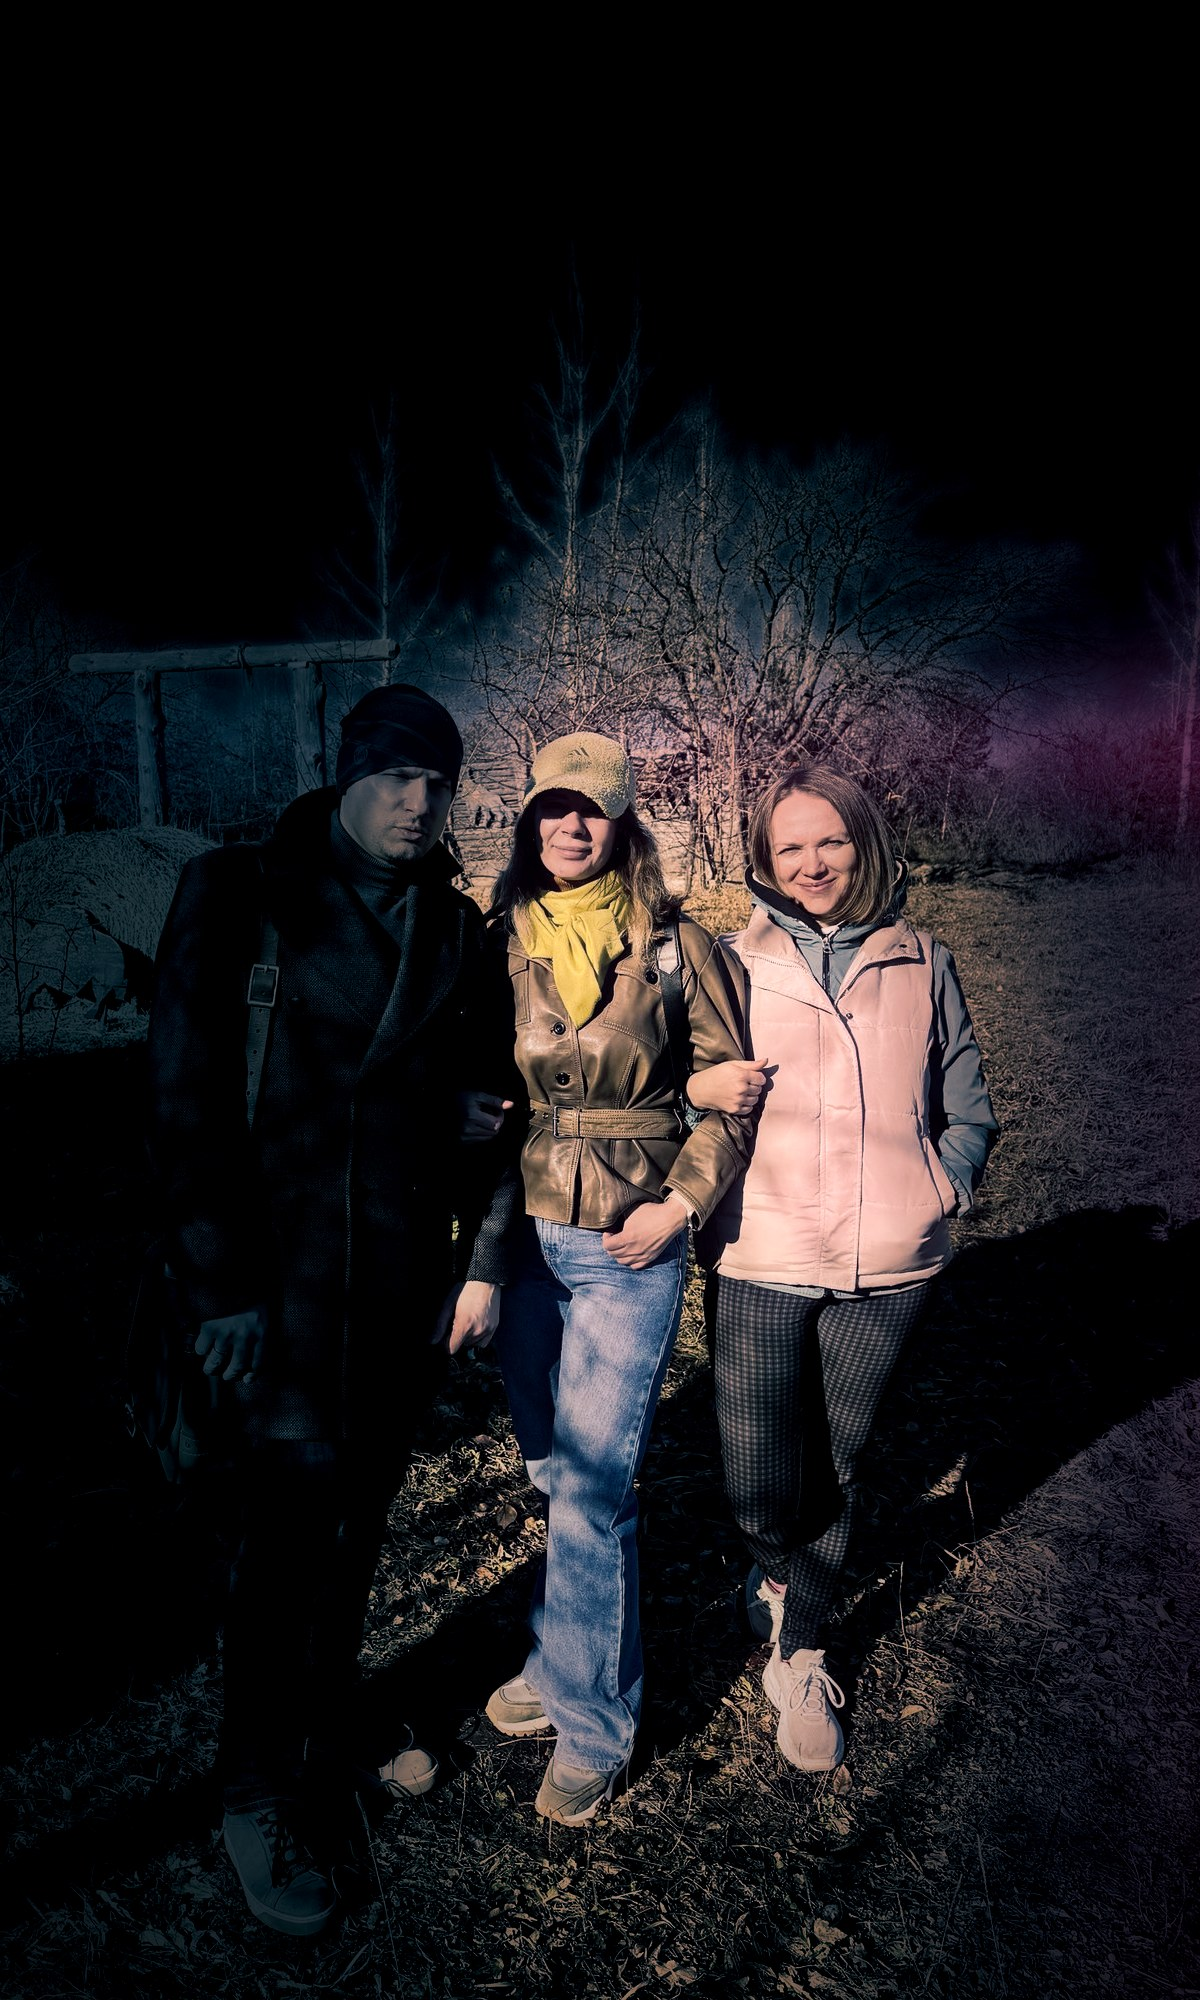
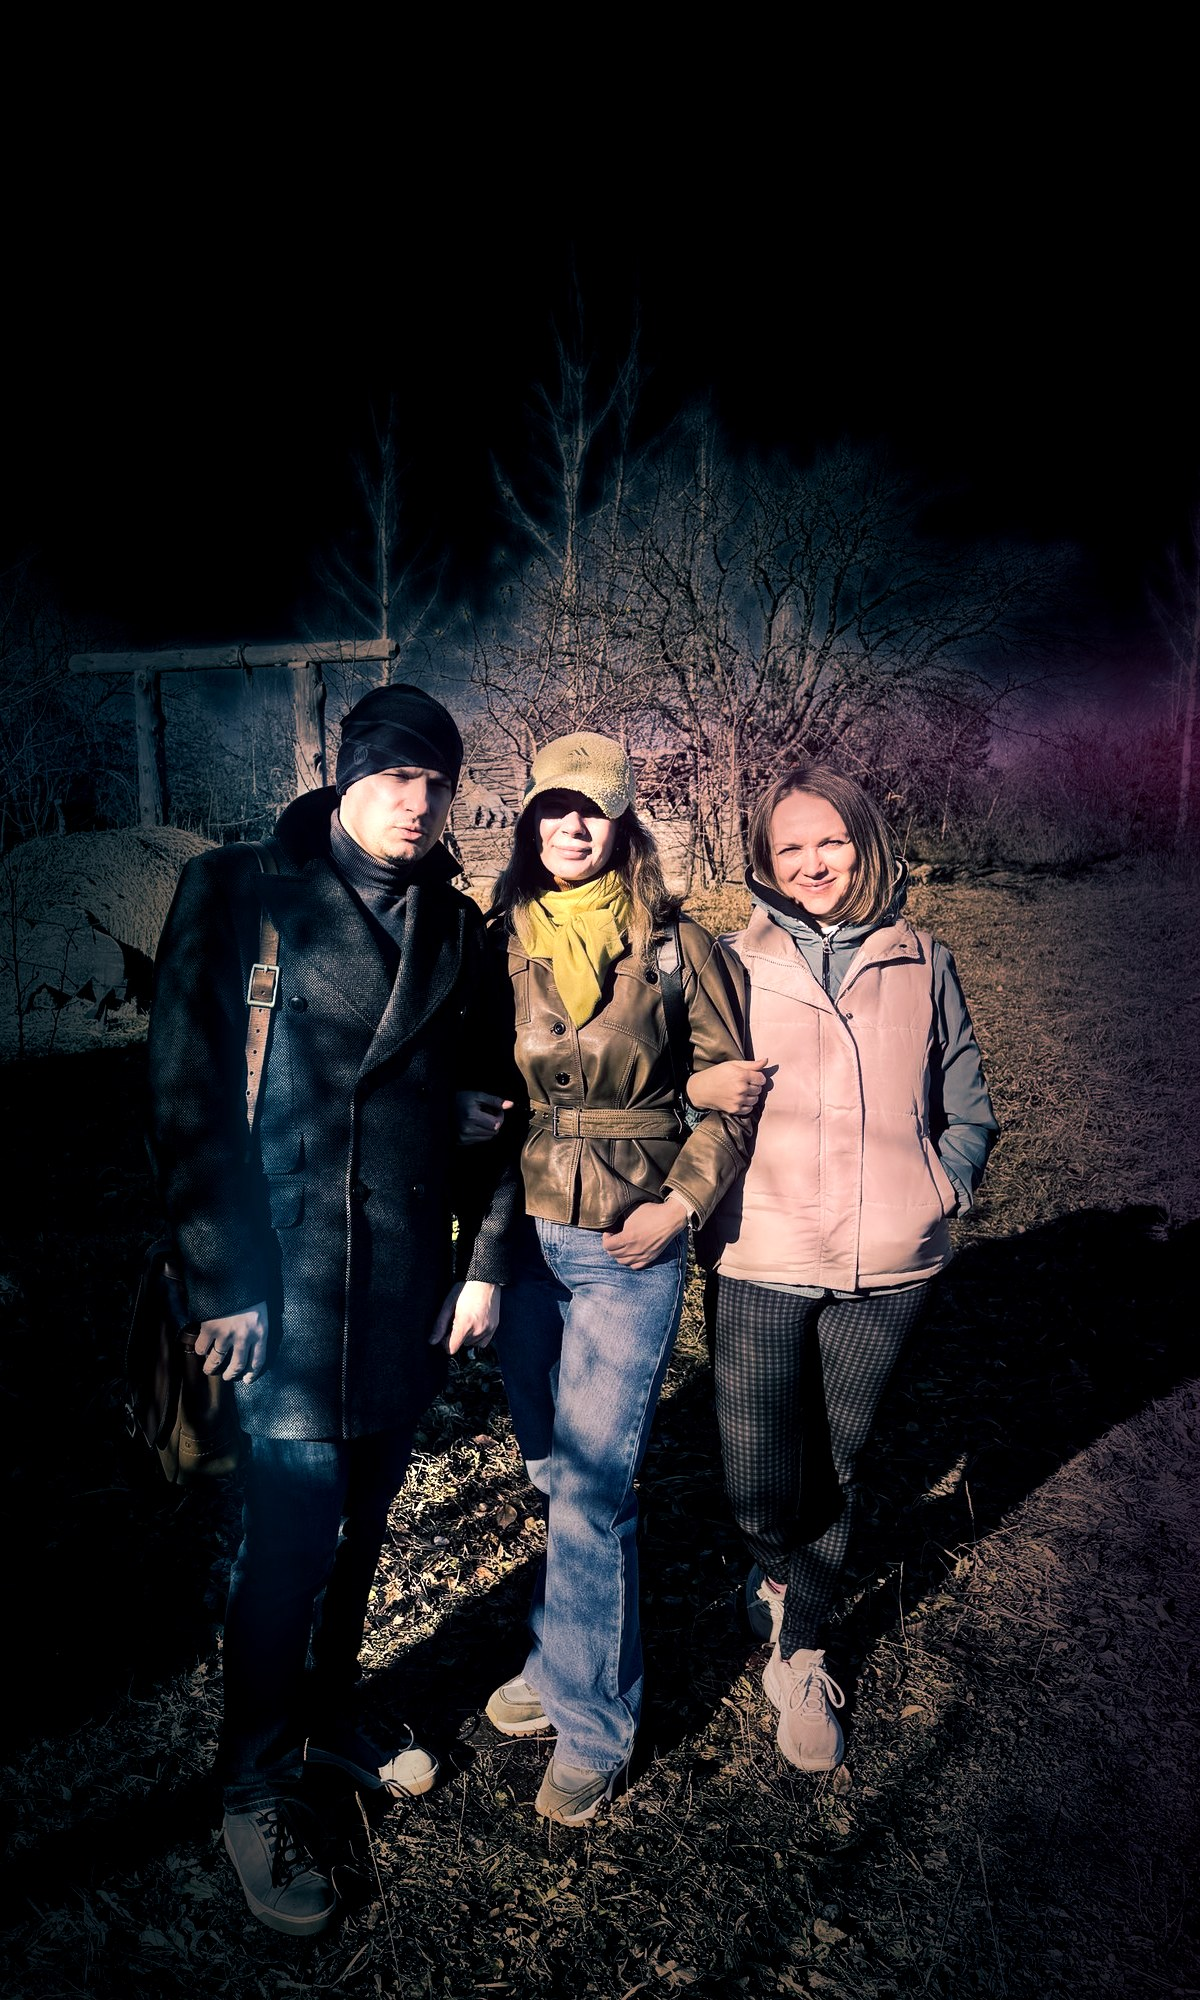
Гардарика 2026: начало фильма — Евгений освещён (фонарь на всех троих, свет на лица, бирюзовый контровой свет по силуэту), кадр intro ?v=2
Claude-Session: https://claude.ai/code/session_01U9PUmj3yqdy1TXGE8Am5sR

diff --git a/gardarika/index.html b/gardarika/index.html
@@ -245,7 +245,7 @@ body.editing .toast{bottom:calc(84px + env(safe-area-inset-bottom,0px))}
  "subtitle": "",
  "author": "ND",
  "cast": ["Наталья", "Мария", "Евгений"],
- "intro": {"src": "photos/intro.jpg", "w": 1200, "h": 2000, "cast": [["Евгений", 0.287, 0.41], ["Наталья", 0.494, 0.42], ["Мария", 0.713, 0.44]]},
+ "intro": {"src": "photos/intro.jpg?v=2", "w": 1200, "h": 2000, "cast": [["Евгений", 0.287, 0.41], ["Наталья", 0.494, 0.42], ["Мария", 0.713, 0.44]]},
  "photos": [
  {"id": "g001", "src": "photos/g001.jpg", "thumb": "photos/t/g001.jpg", "w": 1500, "h": 2000},
  {"id": "g002", "src": "photos/g002.jpg", "thumb": "photos/t/g002.jpg", "w": 1500, "h": 2000},

diff --git a/gardarika/tools/noir.py b/gardarika/tools/noir.py
@@ -21,12 +21,18 @@ blur = lambda m, s: np.asarray(Image.fromarray((np.clip(m, 0, 1) * 255).astype(n
 
 r, g, b = a[..., 0], a[..., 1], a[..., 2]
 sky = blur(np.clip((b - np.maximum(r, g) * 1.05) * 6, 0, 1) * np.clip((0.6 - yy) * 5, 0, 1), 4)
-cx, cy, rx, ry = 0.63, 0.63, 0.25, 0.40
+# «фонарь» освещает всех троих (Евгений слева, у края, — тоже: 27.10 пользователь сказал, что его не видно)
+cx, cy, rx, ry = 0.585, 0.63, 0.33, 0.40
 subj = blur(np.clip(1.3 - (((xx - cx) / rx) ** 2 + ((yy - cy) / ry) ** 2), 0, 1), W / 30)
+ell = lambda x0, y0, ax, ay: np.clip(1 - (((xx - x0) / ax) ** 2 + ((yy - y0) / ay) ** 2), 0, 1)
+# мягкий свет на лица (как в кино): Евгений, Наталья, Мария — центры лиц в долях исходного фото
+faces = blur(ell(0.41, 0.405, 0.055, 0.045) + ell(0.575, 0.42, 0.05, 0.04) + ell(0.75, 0.44, 0.05, 0.04), W / 60)
+# Евгений в чёрном пальто и шапке: фигуру чуть высветлить, чтобы она читалась на тёмном фоне
+jen = blur(ell(0.42, 0.66, 0.10, 0.31), W / 40)
 
 lum = 0.299 * r + 0.587 * g + 0.114 * b
 # ночь: фон темнее, небо почти чёрное
-L = lum * (0.42 + 0.48 * subj) * (1 - 0.80 * sky)
+L = lum * (0.42 + 0.48 * subj) * (1 - 0.80 * sky) * (1 + 0.55 * faces) * (1 + 0.9 * jen)
 L = np.clip(L, 0, 1)
 
 # градиентная карта
@@ -40,7 +46,7 @@ cols = np.array([[0.008, 0.010, 0.022],    # почти чёрный с сине
 gm = np.stack([np.interp(L, stops, cols[:, k]) for k in range(3)], axis=-1)
 
 # смешение с исходным цветом: у людей живые цвета, фон — стилизован
-orig = a * (0.42 + 0.48 * subj)[..., None] * (1 - 0.8 * sky[..., None])
+orig = a * ((0.42 + 0.48 * subj) * (1 - 0.8 * sky) * (1 + 0.55 * faces) * (1 + 0.9 * jen))[..., None]
 k = (0.85 - 0.50 * subj)[..., None]
 o = gm * k + orig * (1 - k)
 
@@ -50,6 +56,9 @@ left = np.clip(1 - xx / 0.55, 0, 1) ** 1.4
 body = np.clip(L / 0.18, 0, 1)
 rim = np.clip((xx - 0.72) / 0.28, 0, 1) ** 1.5   # малиновый — только краем справа, как от вывески
 o = o + (rim[..., None] * np.array([0.26, 0.02, 0.12]) + left[..., None] * np.array([0.00, 0.07, 0.10])) * body[..., None] * 0.6
+# бирюзовый контровой свет по левому краю силуэта Евгения
+jrim = blur(ell(0.355, 0.62, 0.035, 0.30), W / 70)
+o = o + jrim[..., None] * np.array([0.00, 0.16, 0.22])
 
 # огни у горизонта: узкая светящаяся полоса за деревьями
 hz = np.exp(-((yy - 0.375) / 0.035) ** 2) * (0.3 + 0.7 * sky + 0.4 * (1 - sky))
